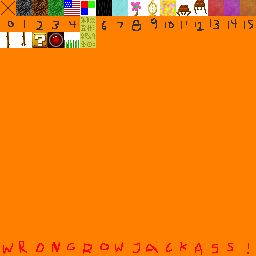
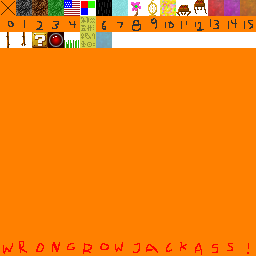
Added water

Changed region(s): [[0.375, 0.125, 1.0, 0.1875]]

diff --git a/main.js b/main.js
@@ -172,7 +172,6 @@ var BLOCK_TYPES = {
     translucent: [154,40,155,0.85],
     geometry: geometryBlock,
     viscosity: 0.85,
-    //unpickable: true,
   },
   'strawberry jelly': {
     tile: 13,
@@ -180,7 +179,6 @@ var BLOCK_TYPES = {
     translucent: [200,81,83,0.85],
     geometry: geometryBlock,
     viscosity: 0.85,
-    //unpickable: true,
   },
   'apricot jelly': {
     tile: 15,
@@ -188,7 +186,14 @@ var BLOCK_TYPES = {
     translucent: [191,124,66,0.85],
     geometry: geometryBlock,
     viscosity: 0.85,
-    //unpickable: true,
+  },
+  'water': {
+    tile: [6, 2],
+    liquid: true,
+    translucent: [30, 137, 157, 0.5],
+    geometry: geometryBlock,
+    viscosity: 0.5,
+    unpickable: true,
   },
   rope: {
     tile: function () { 
@@ -1221,6 +1226,7 @@ Block.prototype.generateTerrain = function () {
     else if (n < -0.1) this.type = BLOCK_TYPES.dirt;
     else if (n < 0) this.type = GRASSY ? BLOCK_TYPES.dirt : BLOCK_TYPES.grass;
     else if (this.y < HY / 4) this.type = BLOCK_TYPES['apricot jelly'];
+    //else if (this.y < HY / 2) this.type = BLOCK_TYPES.water;
     else this.type = BLOCK_TYPES.air;
 
     if (Math.pow(noise(this.x/10, this.y/10, this.z/10 + 1000), 3) < -0.12)
